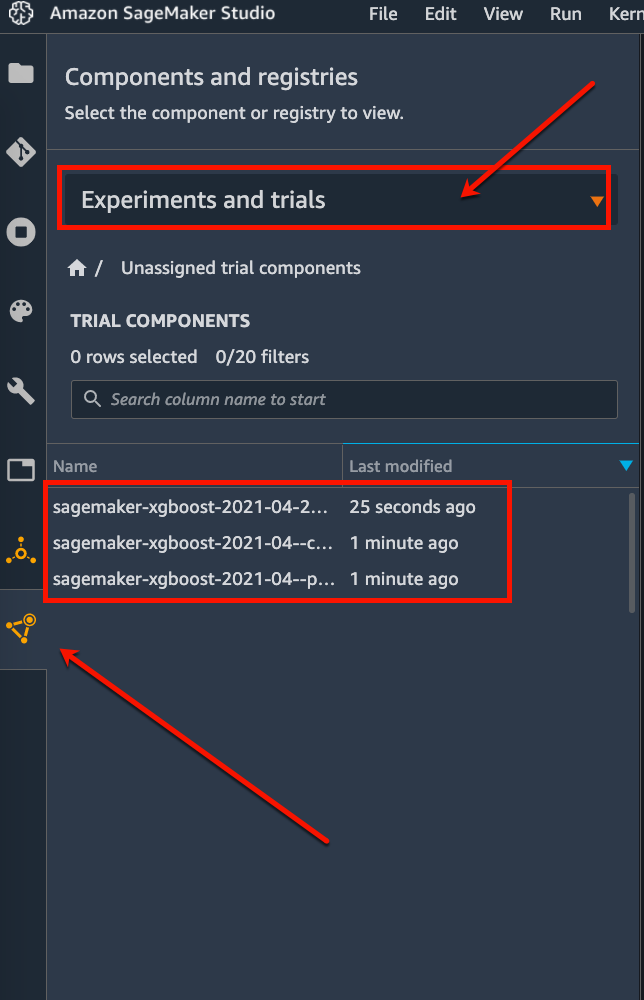
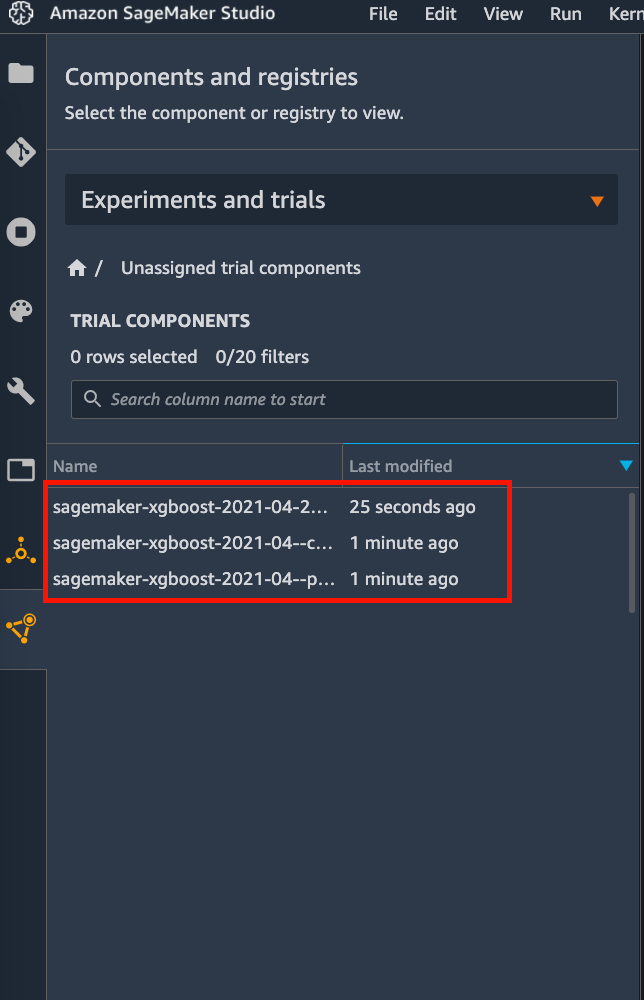
updated workshop

diff --git a/themes/learn/layouts/partials/menu-footer.html b/themes/learn/layouts/partials/menu-footer.html
@@ -1,1 +1,1 @@
-<p>Built with <a href="https://github.com/matcornic/hugo-theme-learn"><i class="fas fa-heart"></i></a> from <a href="https://getgrav.org">Grav</a> and <a href="https://gohugo.io/">Hugo</a></p>
+<!-- <p>Built with <a href="https://github.com/matcornic/hugo-theme-learn"><i class="fas fa-heart"></i></a> from <a href="https://getgrav.org">Grav</a> and <a href="https://gohugo.io/">Hugo</a></p> -->

diff --git a/content/5_end-to-end-pipeline/end-to-end-ml-pipeline.md b/content/5_end-to-end-pipeline/end-to-end-ml-pipeline.md
@@ -4,7 +4,7 @@ weight: 3
 ---
 
 {{% notice info %}}
-Start this section in a new Jupyter notebook
+Start this section in a new Jupyter notebook with the Data Science kernel
 {{% /notice %}}
 
 ```python
@@ -58,7 +58,7 @@ random_state = 42
 %store
 ```
 
-# Create a SageMaker Pipeline to Automate All the Steps from Data Prep to Model Deployment
+### Create a SageMaker Pipeline to Automate All the Steps from Data Prep to Model Deployment
 Now that youve manually done each step in our machine learning workflow, you can create a pipeline which trains a new model, persists the model in SageMaker and then adds the model to the registry.
 
 ### Pipeline parameters
@@ -91,8 +91,12 @@ deploy_model_instance_type = "ml.m4.xlarge"
 xgboost_container = sagemaker.image_uris.retrieve("xgboost", region, "1.2-1")
 ```
 
-## Step 1: Preprocess
+#### Step 1: Preprocess
 
+Download the preprocessing script
+```python
+!wget https://raw.githubusercontent.com/shashankprasanna/sagemaker-workshop-2021/main/notebooks/04_e2e_pipeline/preprocessing.py
+```
 
 ```python
 s3_client.upload_file(Filename='./preprocessing.py', Bucket=default_bucket, Key=f'{prefix}/code/preprocessing.py')
@@ -120,7 +124,7 @@ create_dataset_step = ProcessingStep(
     code=create_dataset_script_uri)
 ```
 
-## Step 2: Train XGBoost Model
+#### Step 2: Train XGBoost Model
 
 
 ```python
@@ -131,7 +135,7 @@ job_name = f'XgboostTrain-' + strftime('%d-%H-%M-%S', gmtime())
 training_job_output_path = f's3://{default_bucket}/{prefix}/training_jobs'
 ```
 
-#### Spot training
+##### Spot training
 
 Managed Spot Training uses Amazon EC2 Spot instance to run training jobs instead of on-demand instances. You can specify which training jobs use spot instances and a stopping condition that specifies how long Amazon SageMaker waits for a job to run using Amazon EC2 Spot instances.
 
@@ -182,7 +186,7 @@ train_step = TrainingStep(
 )
 ```
 
-## Step 3: Model Pre-Deployment Step
+#### Step 3: Model Pre-Deployment Step
 
 
 ```python
@@ -205,7 +209,7 @@ create_model_step = CreateModelStep(
 )
 ```
 
-## Step 4: Run Bias Metrics with Clarify
+#### Step 4: Run Bias Metrics with Clarify
 
 
 ```python
@@ -269,7 +273,7 @@ clarify_step = ProcessingStep(
 )
 ```
 
-## Step 5: Register Model
+#### Step 5: Register Model
 
 
 ```python
@@ -355,8 +359,12 @@ register_step = RegisterModel(
 )
 ```
 
-## Step 6: Deploy Model
+#### Step 6: Deploy Model
 
+Download the deploy_model.py script
+```python
+!wget https://raw.githubusercontent.com/shashankprasanna/sagemaker-workshop-2021/main/notebooks/04_e2e_pipeline/deploy_model.py
+```
 
 ```python
 endpoint_name = "xgboost-model-pipeline-" + strftime('%d-%H-%M-%S', gmtime())
@@ -384,7 +392,7 @@ deploy_step = ProcessingStep(
     code=deploy_model_script_uri)
 ```
 
-## Combine the Pipeline Steps and Run
+#### Combine the Pipeline Steps and Run
 
 
 ```python
@@ -405,7 +413,7 @@ pipeline = Pipeline(
     ])
 ```
 
-## Submit the pipeline definition to the SageMaker Pipeline service
+#### Submit the pipeline definition to the SageMaker Pipeline service
 
 Note: If an existing pipeline has the same name it will be overwritten.
 

diff --git a/content/6_clean-up/cleanup.md b/content/6_clean-up/cleanup.md
@@ -4,19 +4,36 @@ weight: 3
 ---
 
 {{% notice info %}}
-Start this section in a new Jupyter notebook
+Start this section in a new Jupyter notebook with the Data Science kernel
 {{% /notice %}}
 
-After running the demo, you should remove the resources which were created. You can also delete all the objects in the project's S3 directory by passing the keyword argument delete_s3_objects=True.
+After running the workshop, you can remove the resources which you created using this helper function.
+
+First download the helper function. In a new cell execute the following.
+
+```python
+!wget https://raw.githubusercontent.com/shashankprasanna/sagemaker-workshop-2021/main/notebooks/04_e2e_pipeline/utils.py
+```
+
+```python
+%store -r
+```
+
+Run the following command to delete all your project resources.
+You can also delete all the objects in the project's S3 directory by passing the keyword argument `delete_s3_objects=True`.
 
 
 ```python
+import boto3
+boto_session = boto3.Session()
+sagemaker_boto_client = boto_session.client('sagemaker')
+
 from utils import delete_project_resources
 
 delete_project_resources(
     sagemaker_boto_client=sagemaker_boto_client,
     endpoint_name=endpoint_name,
-    pipeline_name=pipeline_name,
+    pipeline_name='credit-default',
     mpg_name=mpg_name,
     prefix=prefix,
     delete_s3_objects=False,

diff --git a/content/3_build-train/_index.md b/content/3_build-train/_index.md
@@ -9,8 +9,8 @@ weight: 4
 #### You will cover:
 
 1. Preparing your training, validation and test Sets
-1. Training a model using XGBoost on Amazon SageMaker
-1. Using Amazon SageMaker Debugger to debug and profile your training jobs
-1. Generate bias reports using Amazon SageMaker Clarify
+1. Training a model using XGBoost on [Amazon SageMaker](https://aws.amazon.com/sagemaker/?trk=el_a134p000006vgXgAAI&trkCampaign=NA-FY21-GC-400-FTSA-SAG-Overview&sc_channel=el&sc_campaign=Y21-SageMaker_shshnkp&sc_outcome=AIML_Digital_Marketing)
+1. Using [Amazon SageMaker Debugger](https://aws.amazon.com/sagemaker/debugger/?trk=el_a134p000006vgXgAAI&trkCampaign=NA-FY21-GC-400-FTSA-SAG-Overview&sc_channel=el&sc_campaign=Y21-SageMaker_shshnkp&sc_outcome=AIML_Digital_Marketing) to debug and profile your training jobs
+1. Generate bias reports using [Amazon SageMaker Clarify](https://aws.amazon.com/sagemaker/clarify/?trk=el_a134p000006vgXgAAI&trkCampaign=NA-FY21-GC-400-FTSA-SAG-Overview&sc_channel=el&sc_campaign=Y21-SageMaker_shshnkp&sc_outcome=AIML_Digital_Marketing)
 1. Track model lineage with built-in Amazon SageMake Lineage tracking
 1. Saving models and lineage information in the SageMaker Model registry

diff --git a/content/2_data-prep/_index.md b/content/2_data-prep/_index.md
@@ -12,12 +12,9 @@ In this section you'll learn how to use Amazon SageMaker Studio and Data Wrangle
 You'll be working with a tabular dataset consisting of default payments of credit card clients.
 <br> **Number of rows:** 30000 <br> **Number of columns:** 24
 
-The output or response variable we'll be building a model to predict is a binary categorical variable **1 or 0**. <br>
-**1:** Credible customer, who will not default on the payments. <br>
-**0:** Not a credible customer, who will default on the payments.
+Dataset source: https://archive.ics.uci.edu/ml/datasets/default+of+credit+card+clients
+
+The output or response variable we'll be building a model to predict is a binary categorical variable **1 or 0**. Where **1** represents a credible customer, who will not default on the payments and **0:** represents a not very credible customer, who will default on the payments. The machine learning problem at hand is to estimate the probability of default.
 
 The screenshot below shows part of the dataset. The red box shows the response variable that we'll train a model to predict.
 ![](/images/dataset_csv.png)
-
-**Section walkthough (TBD) **
-{{< youtube w7Ft2ymGmfc >}}

diff --git a/content/3_build-train/train_xgboost_model.md b/content/3_build-train/train_xgboost_model.md
@@ -4,7 +4,7 @@ weight: 1
 ---
 
 {{% notice info %}}
-Start this section in a new Jupyter notebook
+Start this section in a new Jupyter notebook with the Data Science kernel
 {{% /notice %}}
 
 ### Import necessary packages
@@ -213,7 +213,13 @@ training_job_name = xgb_estimator.latest_training_job.job_name
 You should the training start in your Jupyter Notebook:
 ![](/images/train_tune/train1.png)
 
-SageMaker automatically tracks your training jobs. Click on the last option on the menu pane on the left as show in the image below. In the drop down on the top, choose `Experiments and trials`. You should see 1 training job and 2 processing jobs.
+SageMaker automatically tracks your training jobs. Click on the last option on the menu pane on the left as show in the image below. In the drop down on the top, choose `Experiments and trials`.
+Double click on Unassigned trials
+
+
+You should see 1 training job and 2 processing jobs.
+![](/images/train_tune/train20.png)
+
 ![](/images/train_tune/train2.png)
 
 After training is complete, you'll see the total training time and billable seconds on the jupyter notebook.

diff --git a/content/1_setup/create_notebook.md b/content/1_setup/create_notebook.md
@@ -4,13 +4,16 @@ weight: 2
 chapter: false
 ---
 
-Once you launch SageMaker Studio click on File > New > Notebook to launch a new Jupyter Notebook
+Once you launch SageMaker Studio create a new folder to save all your workshop notebooks.
+![](/images/setup/folder.png)
+
+Double click and navigate into your folder and then click on File > New > Notebook to launch a new Jupyter Notebook
 ![](/images/setup/launch_notebook1.png)
 
-Select Python 3 (Data Science) as the notebook kernel
+Select Python 3 (Data Science) as the notebook kernel.
 ![](/images/setup/launch_notebook2.png)
 
-You should see a new Jupyter notebook open. You'll need to wait for a few minutes while Studio launches an instance in the backend to run the notebook.
+You should see a new Jupyter notebook open. You'll need to wait for a few minutes while Studio launches an instance in the backend to run the notebook. This step should take less than 3 mins
 ![](/images/setup/studio_notebook1.png)
 
 After a few mins, you can see the status of the notebook, at the top of the notebook, or by clicking on the verticle menu bar on the left.

diff --git a/content/1_setup/studio_setup.md b/content/1_setup/studio_setup.md
@@ -28,13 +28,13 @@ In this step, you&#39;ll setup Amazon SageMaker Studio. The SageMaker Studio Not
  Amazon SageMaker creates the _AmazonSageMaker-ExecutionRole-\*\*\*_ role.
 ![](/images/setup/image005.png)
 
-1. Click **Submit.** You should see a message saying that the studio is being configured.
+1. Click **Submit.** You should see a message saying that the studio is being configured. This step should take less than 5 minutes.
 ![](/images/setup/image006.png)
 
 1. When Amazon SageMaker Studio is ready, click **Open Studio**
 ![](/images/setup/image007.png)
 
-1. Wait for Amazon SageMaker Studio to load. You'll see the following on your screen and it should take a few minutes launch the interface.
+1. Wait for Amazon SageMaker Studio to load. You'll see the following on your screen and it should take a few minutes launch the interface. This step should take less than 5 mins.
 ![](/images/setup/studio_loading.png)
 
 1. Amazon SageMaker Studio should now be open on a separate browser tab.

diff --git a/content/3_build-train/hyperparametertune_xgboost_model.md b/content/3_build-train/hyperparametertune_xgboost_model.md
@@ -4,7 +4,7 @@ weight: 2
 ---
 
 {{% notice info %}}
-Start this section in a new Jupyter notebook
+Start this section in a new Jupyter notebook with the Data Science kernel
 {{% /notice %}}
 
 In this section we'll train a second model fix the gender imbalance in the dataset using SMOTE and train the model using XGBoost with hyperparameter tuning and Debugger. We will also save this modelto our registry and eventually approved for deployment.
@@ -240,7 +240,12 @@ tuner.fit({'train': train_input,
                   }
                    )
 ```
+You can also monitor training jobs and hyperparameter tuning job status on the AWS console.
+Navigate to the `AWS Console > Amazon SageMaker > Training > Hyperparameter Tuning`
 
+![](/images/train_tune/hypopt.png)
+
+After training is done, save the name of the training job with the hyperparamets that yielded the best results.
 
 ```python
 training_smote_job_name = tuner.best_training_job()

diff --git a/content/Appendix/docs.md b/content/Appendix/docs.md
@@ -1,0 +1,16 @@
+---
+title: "Documentation resources"
+weight: 1
+---
+
+#### 1. SageMaker SDK API guide
+https://sagemaker.readthedocs.io/en/stable/
+
+#### 2. SageMaker Sample Notebooks on GitHub
+https://github.com/awslabs/amazon-sagemaker-examples
+
+#### 3. SageMaker Developer Guide
+https://docs.aws.amazon.com/sagemaker/latest/dg/whatis.html
+
+#### 4. SageMaker API Reference
+https://docs.aws.amazon.com/sagemaker/latest/APIReference/API_Operations_Amazon_SageMaker_Service.html

diff --git a/content/4_deploy/_index.md b/content/4_deploy/_index.md
@@ -4,5 +4,4 @@ chapter: false
 weight: 4
 ---
 
-### Dataset:
-In this section you'll learn how to deploy trained machine learning models.
+In this section you'll learn how to deploy trained machine learning models and monitor models using [Amazon SageMaker Model Monitor](https://aws.amazon.com/sagemaker/model-monitor/?trk=el_a134p000006vgXgAAI&trkCampaign=NA-FY21-GC-400-FTSA-SAG-Overview&sc_channel=el&sc_campaign=Y21-SageMaker_shshnkp&sc_outcome=AIML_Digital_Marketing)

diff --git a/content/Appendix/blogposts_videos.md b/content/Appendix/blogposts_videos.md
@@ -1,0 +1,17 @@
+---
+title: "Blogposts and videos"
+weight: 5
+---
+
+### 1. ML blog posts
+#### https://medium.com/@shashankprasanna
+![](/images/blogposts.png)
+
+### 2. SageMaker Clarify Interview at re:invent 2020 with Principal Scientist at AWS AI
+{{< youtube kJdOxZwiyJo >}}
+
+### 3. SageMaker Debugger Interview at re:invent 2020 with Principal PM at AWS AI
+{{< youtube IUEp71wZroM >}}
+
+### 4. AWS Blog posts
+#### https://aws.amazon.com/blogs/machine-learning/
